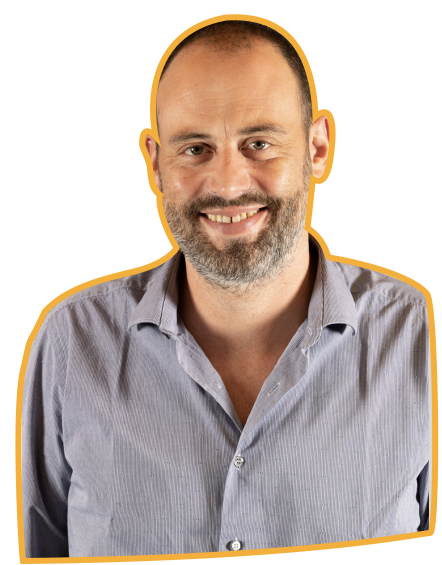
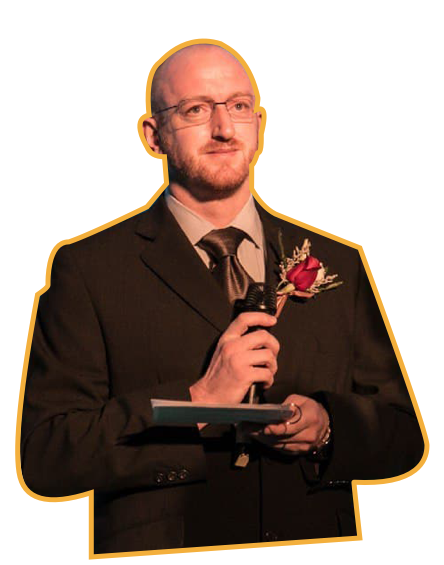
add image

diff --git a/assets/js/public.js b/assets/js/public.js
@@ -3,7 +3,7 @@
  * @LastEditors: abc
  * @Description:
  * @Date: 2019-04-10 14:49:19
- * @LastEditTime: 2020-12-20 22:56:24
+ * @LastEditTime: 2021-08-04 10:38:43
  */
 import Cookie from "js-cookie";
 // translate router.meta.title, be used in breadcrumb sidebar tagsview
@@ -71,13 +71,15 @@ export function handleIsCheck(str, type) {
     },
     //
     emailPhone() {
-      const regText = /(^(((13[0-9])|(15[0-9])|(18[0-9]))\d{8})$)|(^[A-Za-z\d]+@([A-Za-z\d]+\.)(com|sina\.com|com\.cn|qq\.com|cn|net|net\.cn)$)/g;
+      const regText =
+        /(^(((13[0-9])|(15[0-9])|(18[0-9]))\d{8})$)|(^[A-Za-z\d]+@([A-Za-z\d]+\.)(com|sina\.com|com\.cn|qq\.com|cn|net|net\.cn)$)/g;
       const boo = regText.test(str);
       return boo;
     },
     //
     textEmailPhone() {
-      const regText = /(^(?!_)(?!.*?_$)[a-zA-Z0-9_\u4E00-\u9FA5]+$)|(^(((13[0-9])|(15[0-9])|(18[0-9]))\d{8})$)|(^[A-Za-z\d]+@([A-Za-z\d]+\.)(com|sina\.com|com\.cn|qq\.com|cn|net|net\.cn)$)/g;
+      const regText =
+        /(^(?!_)(?!.*?_$)[a-zA-Z0-9_\u4E00-\u9FA5]+$)|(^(((13[0-9])|(15[0-9])|(18[0-9]))\d{8})$)|(^[A-Za-z\d]+@([A-Za-z\d]+\.)(com|sina\.com|com\.cn|qq\.com|cn|net|net\.cn)$)/g;
       const boo = regText.test(str);
       return boo;
     },
@@ -94,13 +96,15 @@ export function handleIsCheck(str, type) {
     },
     //
     email() {
-      const regText = /^[A-Za-z\d]+@([A-Za-z\d]+\.)(com|sina\.com|com\.cn|qq\.com|cn|net|net\.cn)$/g;
+      const regText =
+        /^[A-Za-z\d]+@([A-Za-z\d]+\.)(com|sina\.com|com\.cn|qq\.com|cn|net|net\.cn)$/g;
       const boo = regText.test(str);
       return boo;
     },
     //
     password() {
-      const regText = /^(?![\d]+$)(?![a-zA-Z]+$)(?![!@#$%^&*]+$)[\da-zA-Z!@#$%^&*]{6,25}$/g;
+      const regText =
+        /^(?![\d]+$)(?![a-zA-Z]+$)(?![!@#$%^&*]+$)[\da-zA-Z!@#$%^&*]{6,25}$/g;
       const boo = regText.test(str);
       return boo;
     },
@@ -115,7 +119,8 @@ export function handleIsCheck(str, type) {
   return booResult || "";
 }
 export function validatePassword(str) {
-  const reg = /^(?![\d]+$)(?![a-zA-Z]+$)(?![!@#$%^&*]+$)[\da-zA-Z!@#$%^&*]{6,16}$/;
+  const reg =
+    /^(?![\d]+$)(?![a-zA-Z]+$)(?![!@#$%^&*]+$)[\da-zA-Z!@#$%^&*]{6,16}$/;
   return reg.test(str);
 }
 function hasClass(elements, cName) {

diff --git a/pages/about.vue b/pages/about.vue
@@ -2,7 +2,7 @@
  * @Author: abc
  * @Date: 2020-09-16 15:19:11
  * @LastEditors: abc
- * @LastEditTime: 2021-08-02 14:14:40
+ * @LastEditTime: 2021-08-04 10:55:41
  * @Description: index
 -->
 <template>
@@ -170,7 +170,7 @@
                 </div>
               </template>
             </div>
-            <div class="about-three-right">
+            <div class="about-three-right" style="margin-left: 8%">
               <div class="about-three-right-img" :style="objStyle">
                 <img :src="objCeo.img" alt="ceo-1" />
               </div>
@@ -324,21 +324,21 @@ export default {
       arrCeo: [
         {
           name: "Stuart Nichols (CEO)",
-          card: require("../assets/image/ceo-2-1.jpg"),
+          card: require("../assets/image/ceo-1-1.png"),
           img: require("../assets/image/ceo-1.png"),
           text: this.$t("stuart"),
           isActive: true
         },
         {
           name: "Alan McIvor (COO)",
-          card: require("../assets/image/ceo-2-1.jpg"),
+          card: require("../assets/image/ceo-2-1.png"),
           img: require("../assets/image/ceo-2.png"),
           text: this.$t("alan"),
           isActive: false
         },
         {
           name: "Simon Hemmrich (Senior Consultant)",
-          card: require("../assets/image/ceo-2-1.jpg"),
+          card: require("../assets/image/ceo-3-1.png"),
           img: require("../assets/image/ceo-3.png"),
           text: this.$t("simon"),
           isActive: false
@@ -346,7 +346,7 @@ export default {
       ],
       objCeo: {
         name: "XXX（CEO）",
-        card: require("../assets/image/ceo-2-1.jpg"),
+        card: require("../assets/image/ceo-1-1.png"),
         img: require("../assets/image/ceo-1.png"),
         text: this.$t("stuart"),
         isActive: true
@@ -354,7 +354,7 @@ export default {
       objStyle: {
         width: "400px",
         marginTop: "95px",
-        marginRight: "-5px"
+        marginRight: "-15px"
       },
       timer: null,
       i: 0
@@ -386,7 +386,7 @@ export default {
         this.objStyle = {
           width: "400px",
           marginTop: "95px",
-          marginRight: "-5px"
+          marginRight: "-15px"
         };
       } else if (index === 1) {
         this.objStyle = {

diff --git a/assets/less/about.less b/assets/less/about.less
@@ -141,11 +141,10 @@
         }
       }
       &-content {
-        width: 370px;
+        width: 270px;
       }
       &-top {
-        width: 370px;
-        height: 150px;
+        width: 270px;
         background-color: #e9f5f5;
         border-top-left-radius: 20px;
         border-bottom-right-radius: 20px;
@@ -162,7 +161,6 @@
         border-bottom-width: 5px;
         img {
           width: 100%;
-          height: 100%;
           border-top-left-radius: 20px;
           border-bottom-right-radius: 20px;
           border-top-right-radius: 20px;
@@ -175,16 +173,15 @@
         border-bottom-left-radius: 20px;
         border-bottom-right-radius: 20px;
         border-top-right-radius: 20px;
-        padding: 20px;
+        padding: 15px;
       }
       &-title {
         font-size: 16px;
         font-weight: bolder;
-        margin: 10px 0;
       }
       &-text {
-        font-size: 15px;
-        line-height: 2em;
+        font-size: 14px;
+        line-height: 1.6em;
         margin: 10px 0;
       }
     }
